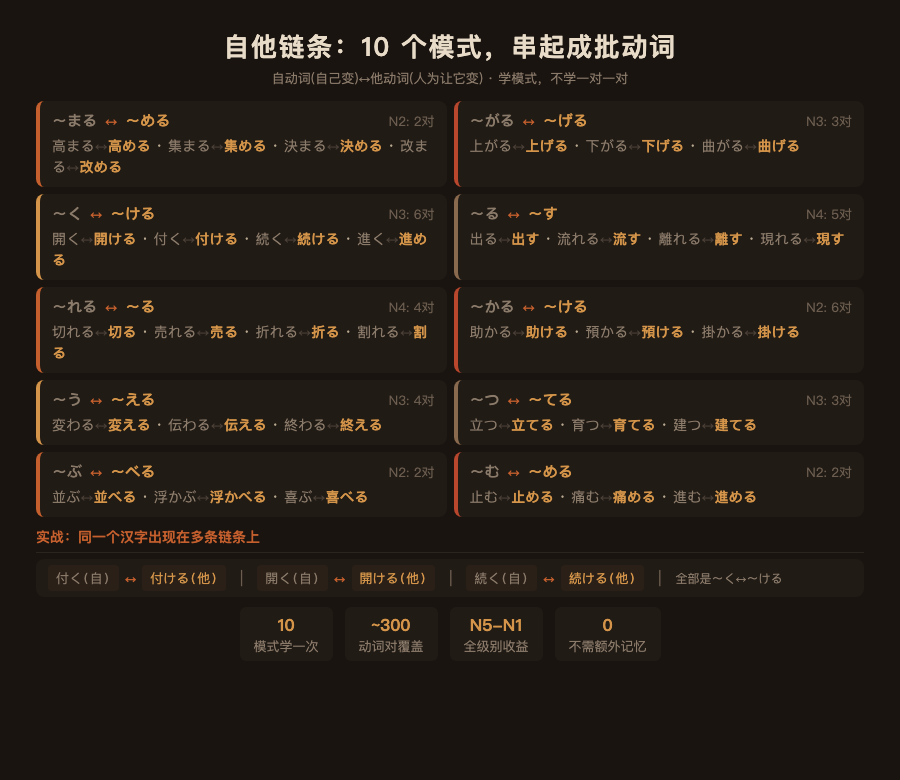
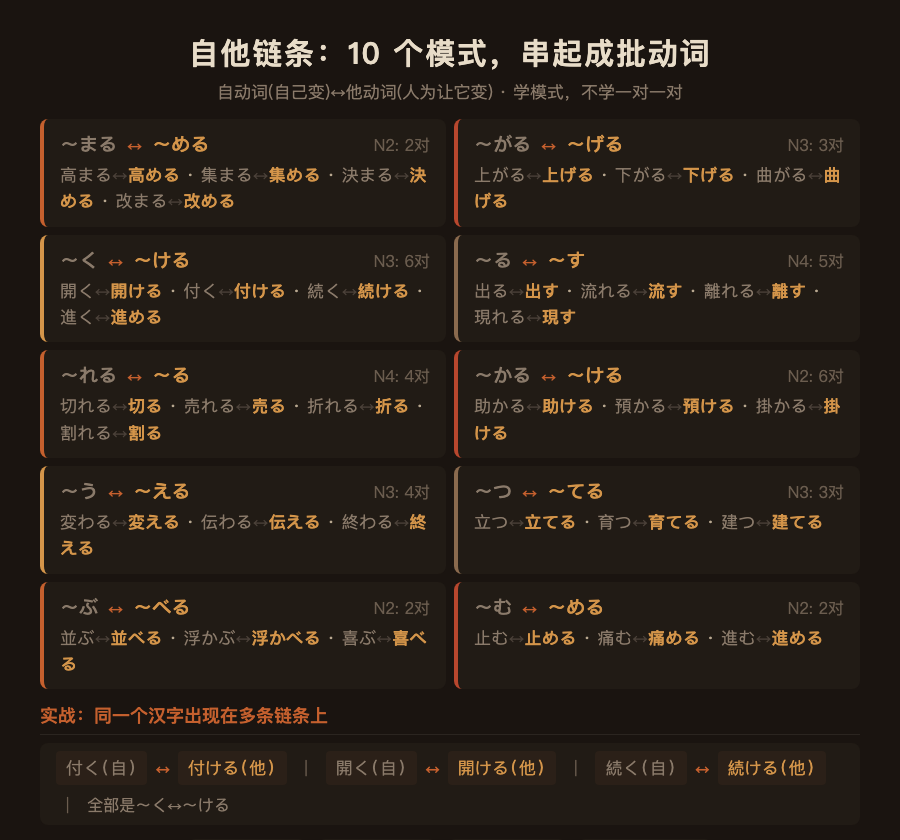
Rewrite README, fix all image fonts, update article ending
- README: concise landing page, terminal hero demo, quick wins table
- 8 images: fonts 1.5-2x larger on 900px canvas (12-13px → 16-20px)
- radical-clusters: reduced to 8 examples/card, height 1020px
- Article: hero caption, strategic bolding, new ending echoing opening
- Added website preview and git screenshots from user

diff --git a/docs/2026-05-09-训读的终极答案-不是背-是逛.html b/docs/2026-05-09-训读的终极答案-不是背-是逛.html
@@ -3,23 +3,24 @@
 <head>
 <meta charset="UTF-8">
 <meta name="viewport" content="width=device-width,initial-scale=1.0">
-<meta name="description" content="你打开 Anki，今天要背 50 张卡。每张卡上一个汉字，两三种读法。这张是「書」——昨天读「か」、今天读「…">
+<meta name="description" content="图：4,316 个表面训读实例，过滤后剩约 1,100 个需要刻意记。训读不是背的，是逛的。 你打开 Ank…">
 <title>训读的终极答案：不是背，是逛</title>
 </head>
 <body style="margin:0;padding:12px;background:#fff;">
 <section style="font-size:17px;color:#2c2416;line-height:1.85;letter-spacing:0.3px;word-wrap:break-word;">
 <p style="text-align:center;margin:20px 0 6px;"><img src="images/2026-05-09/hero.png" alt="头图" style="max-width:100%;height:auto;display:block;margin:0 auto;border-radius:2px;"></p>
+<p style="margin:4px 0 22px;text-align:center;font-size:12px;color:#b0a090;line-height:1.5;">图：4,316 个表面训读实例，过滤后剩约 1,100 个需要刻意记。训读不是背的，是逛的。</p>
 <p style="margin:0 0 18px;text-align:justify;">你打开 Anki，今天要背 50 张卡。每张卡上一个汉字，两三种读法。这张是「書」——昨天读「か」、今天读「しょ」。你已经分不清哪个是音读哪个是训读。也不知道「書きます」和「書いて」为什么要各占一张卡。</p>
 <p style="margin:0 0 18px;text-align:justify;">你盯着屏幕，开始怀疑一件事——我记忆力是不是有问题？</p>
-<p style="margin:0 0 18px;text-align:justify;">不是你记忆力有问题。是我把 JLPT 全部词汇跑了一遍之后，数据说的：4,316 个表面上的训读实例，你需要刻意记的，只有约 1,100 个。剩下四分之三，是日语本身的语法结构替你扛了——活用形、自他对、形态派生，它们本来就不应该作为独立的记忆项存在。</p>
+<p style="margin:0 0 18px;text-align:justify;"><strong style="color:#1a1410;">不是你记忆力有问题。</strong>是我把 JLPT 全部词汇跑了一遍之后，数据说的：4,316 个表面上的训读实例，你需要刻意记的，只有约 1,100 个。剩下四分之三，是日语本身的语法结构替你扛了——活用形、自他对、形态派生，它们本来就不应该作为独立的记忆项存在。</p>
 <p style="margin:0 0 18px;text-align:justify;">剩下的 ~1,100 个词根，也不是一盘散沙。它们之间连着六种你可以用的关系——每一种都让下一个词根更容易记住，因为你是在已有锚点上挂新东西，不是在一片空白里硬刻。</p>
-<p style="margin:0 0 18px;text-align:justify;">训读不是背的。是逛的。</p>
+<p style="margin:0 0 18px;text-align:justify;">训读不是背的。<strong style="color:#1a1410;">是逛的。</strong></p>
 <hr style="margin:32px 0;border:0;border-top:1px solid #e5ddd0;">
 <h2 style="font-size:20px;font-weight:700;color:#1a1410;margin:36px 0 16px;padding-left:12px;border-left:4px solid #b8472e;line-height:1.35;">先扭一个视角</h2>
 <p style="margin:0 0 18px;text-align:justify;">「訓読み」这个词本身就在误导你。听起来像是"汉字的日本发音"——每个汉字自带一种或几种日语读法，你的任务是把它们配对记住。</p>
 <p style="margin:0 0 18px;text-align:justify;">不是这样的。</p>
 <p style="margin:0 0 18px;text-align:justify;">日语里有一个动词，读作「はかる」。意思是量、测、估计。当你用它称重量，写成「量る」。测长度，写成「測る」。图谋不轨，写成「謀る」。日语里只有一个「はかる」——你不需要记三个汉字的三个训读。你学的是一个日语词，它有三种汉字写法。</p>
-<p style="margin:0 0 18px;text-align:justify;">把这个视角扭过来。训读不是汉字的日本发音，是和语词的汉字书写方式。扭过来之后，一堆你以前觉得混乱不堪的东西突然清楚了。</p>
+<p style="margin:0 0 18px;text-align:justify;">把这个视角扭过来。<strong style="color:#1a1410;">训读不是汉字的日本发音，是和语词的汉字书写方式。</strong>扭过来之后，一堆你以前觉得混乱不堪的东西突然清楚了。</p>
 <p style="margin:0 0 18px;text-align:justify;"><strong style="color:#1a1410;">你学的是一个日语词。汉字只是它穿的衣服。</strong></p>
 <p style="text-align:center;margin:20px 0 6px;"><img src="images/2026-05-09/hakaru.png" alt="はかる" style="max-width:100%;height:auto;display:block;margin:0 auto;border-radius:2px;"></p>
 <p style="margin:4px 0 22px;text-align:center;font-size:12px;color:#b0a090;line-height:1.5;">图：日语里只有一个「はかる」——量る（称重）、測る（测长）、謀る（图谋）是三种写法，不是三个词。</p>
@@ -30,8 +31,8 @@
 <p style="text-align:center;margin:20px 0 6px;"><img src="images/2026-05-09/henka.png" alt="変：汉字网络卡" style="max-width:100%;height:auto;display:block;margin:0 auto;border-radius:2px;"></p>
 <p style="margin:4px 0 22px;text-align:center;font-size:12px;color:#b0a090;line-height:1.5;">图：「変」的四张网——か家族 28 字（最大词干家族）、自他一对、复合词 6 个、同部件 39 字。</p>
 <p style="margin:0 0 18px;text-align:justify;"><strong style="color:#1a1410;">词干家族。</strong> 这是最狠的一招。「変」读 か。同一个 か，JLPT 里还有 27 个字：書、買、借、掛、換、勝、兼、交、代、駆、飼、枯、嗅、噛、欠、架、賭、描、刈、懸、掻、蚊、鹿、貸、且、涸、嗄。这是 260 个词干家族里最大的一族。</p>
-<p style="margin:0 0 18px;text-align:justify;">你在 N5 学了「書＝か」——書く、書き方。到 N4 遇到「買＝か」——買う、買い物。到 N3 遇到「変＝か」——変わる。到 N2 遇到「掛＝か」——掛かる、掛ける。到 N1 遇到「賭＝か」——賭ける。一个读音，贯穿五个级别，二十八个字。你不是在背二十八个新读法——你在确认二十八次同一个读音。确认的成本，大约是全新记忆的三成。</p>
-<p style="margin:0 0 18px;text-align:justify;"><strong style="color:#1a1410;">自他对应。</strong> 変わる（自己变）↔ 変える（人为让它变）。模式是 〜う↔〜える。学会这一个模式，「変」的训读用法少了一半。同一个模式管着伝わる↔伝える、終わる↔終える、替わる↔替える。不是一条一条记，是一个模式管一批。</p>
+<p style="margin:0 0 18px;text-align:justify;">你在 N5 学了「書＝か」——書く、書き方。到 N4 遇到「買＝か」——買う、買い物。到 N3 遇到「変＝か」——変わる。到 N2 遇到「掛＝か」——掛かる、掛ける。到 N1 遇到「賭＝か」——賭ける。一个读音，贯穿五个级别，二十八个字。你不是在背二十八个新读法——<strong style="color:#1a1410;">你在确认二十八次同一个读音。确认的成本，大约是全新记忆的三成。</strong></p>
+<p style="margin:0 0 18px;text-align:justify;"><strong style="color:#1a1410;">自他对应。</strong> 変わる（自己变）↔ 変える（人为让它变）。模式是 〜う↔〜える。学会这一个模式，「変」的训读用法少了一半。同一个模式管着伝わる↔伝える、終わる↔終える、替わる↔替える。<strong style="color:#1a1410;">不是一条一条记，是一个模式管一批。</strong></p>
 <p style="margin:0 0 18px;text-align:justify;"><strong style="color:#1a1410;">复合词共现。</strong> JLPT 里「変」和这些字一起出现：大、相、化、換、更、革——大変、相変、変化、変換、変更、変革。你在 N5 学了「大変」（たいへん），到 N3 遇到「変化」（へんか）——「変」你已经见过了。每遇到一次，就是一次免费复习。</p>
 <p style="margin:0 0 18px;text-align:justify;"><strong style="color:#1a1410;">同部件。</strong> 39 个字共享「変」的部件结构——恋、蛮、湾、跡……他们之间没有读音规律。没关系。部件的意义不是预测读音，是视觉锚定——你看到这个结构，就知道它是"这一类的字"。</p>
 <p style="margin:0 0 18px;text-align:justify;">一个 N5 汉字，四张网同时罩着它。你不是在记一个读音。<strong style="color:#1a1410;">你是在一张网上定位一个节点。</strong></p>
@@ -88,7 +89,14 @@
 <p style="margin:0 0 18px;text-align:justify;"><strong style="color:#1a1410;">验证方式。</strong> 每一步都不是"我觉得应该是这样"——是用数据回答的。词干家族的成员都经过了交叉验证（同一个词干读法在至少两个不同的 JLPT 词中出现）。自他模式的覆盖率用实际动词对数量算的。压缩比每层都有去重前后的计数对比。</p>
 <p style="margin:0 0 18px;text-align:justify;"><strong style="color:#1a1410;">核心结论用数据说就是：</strong> 4,316 个表面训读实例，日语语法结构替你扛掉 3,200 个，剩下 ~1,100 个用三种走法串起来。你不是要背 4,316 个东西——你是要在 1,100 个节点上逛。</p>
 <hr style="margin:32px 0;border:0;border-top:1px solid #e5ddd0;">
-<div style="margin:32px 0 12px;padding:20px 18px;background:#faf7f2;border:1px solid #e0d6c4;border-radius:6px;text-align:center;font-size:15px;color:#5c4a32;line-height:1.8;">我把这 2,135 个字的关系网做成了一个网站。点一个汉字，看它连着谁——词干家族、自他对、复合词、部首、部件。<br><br><strong style="color:#1a1410;">www.5mcv4he.cn/yomeru.html</strong><br><br>全部代码、数据、分析脚本已开源：<br><br><strong style="color:#1a1410;">github.com/5Mcv4He/kanji-kun</strong><br><br>你背训读的时候，哪个字让你最崩溃？去搜一下，评论区告诉我它连着谁。</div>
+<h2 style="font-size:20px;font-weight:700;color:#1a1410;margin:36px 0 16px;padding-left:12px;border-left:4px solid #b8472e;line-height:1.35;">回到那张 Anki 卡</h2>
+<p style="margin:0 0 18px;text-align:justify;">现在回到你打开 Anki 的那个瞬间。</p>
+<p style="margin:0 0 18px;text-align:justify;">你打开的不是 50 张需要独立记忆的卡。你打开的是一张网。每个汉字的训读，不是它自己发明的发音——是一个日语词给它穿的衣服。你每遇到一个"新"读法，做的不是背：是把新来的汉字放进它该去的词干家族、确认一次自他模式、在部首文件夹里给它一个位置。</p>
+<p style="margin:0 0 18px;text-align:justify;"><strong style="color:#1a1410;">确认 28 次同一个读音，比背 28 个独立读音省四分之三的力气。</strong></p>
+<p style="margin:0 0 18px;text-align:justify;">4,316 个表面实例，日语语法替你扛了四分之三。剩下 ~1,100 个词根，用三种走法串起来——词干家族 260 个、自他模式 10 个、部首文件夹 15 个。JLPT 任何一个汉字，你都知道该往哪逛。你的任务不是背 4,316 个东西，是在 1,100 个节点之间逛。</p>
+<p style="text-align:center;margin:20px 0 6px;"><img src="images/2026-05-09/网页预览.jpg" alt="网站截图" style="max-width:100%;height:auto;display:block;margin:0 auto;border-radius:2px;"></p>
+<p style="margin:4px 0 22px;text-align:center;font-size:12px;color:#b0a090;line-height:1.5;">图：kanji-kun 网站——点任意汉字，看它连着谁。</p>
+<div style="margin:32px 0 12px;padding:20px 18px;background:#faf7f2;border:1px solid #e0d6c4;border-radius:6px;text-align:center;font-size:15px;color:#5c4a32;line-height:1.8;"><strong style="color:#1a1410;">www.5mcv4he.cn/yomeru.html</strong><br><br>全部代码、数据、分析脚本已开源：<br><br><img src="images/2026-05-09/git.png" alt="GitHub" style="max-width:100%;height:auto;display:block;margin:0 auto;border-radius:2px;"><br><br><strong style="color:#1a1410;">github.com/5Mcv4He/kanji-kun</strong></div>
 </section>
 </body>
 </html>

diff --git a/README.md b/README.md
@@ -1,22 +1,22 @@
-# 训读终结
-
 <p align="center">
   <samp>訓</samp> <samp>読</samp> <samp>終</samp> <samp>結</samp>
 </p>
 
 <p align="center">
-  <img src="https://img.shields.io/badge/data-8,375%20words-2c2416?style=flat-square" alt="8,375 JLPT words">
+  <img src="https://img.shields.io/badge/kanji-2,135-c5602e?style=flat-square" alt="2,135 JLPT kanji">
   <img src="https://img.shields.io/badge/ratio-4.0:1-b8472e?style=flat-square" alt="4.0:1 compression">
-  <img src="https://img.shields.io/badge/coverage-N5%E2%80%93N1-c5602e?style=flat-square" alt="N5-N1">
-  <img src="https://img.shields.io/badge/python-3.9%2B-d4954a?style=flat-square" alt="Python 3.9+">
+  <img src="https://img.shields.io/badge/level-N5%E2%80%93N1-d4954a?style=flat-square" alt="N5-N1">
+  <img src="https://img.shields.io/badge/license-MIT-8a7a6a?style=flat-square" alt="MIT">
 </p>
+
+# 训读终结
 
 <p align="center">
   <b>JLPT 的训读，四分之三不需要记。</b>
   <br>
-  不是靠技巧绕过去——是日语本身的结构决定了它们不是独立的记忆项。
+  不是靠技巧绕过去——是日语本身的语法结构决定了它们不是独立的记忆项。
   <br>
-  穷举三种方法、三十多个维度之后，确认了这件事。
+  4,316 个表面实例，压缩到 ~1,100 个需要刻意记的词根。用三种走法串起来。
 </p>
 
 <br>
@@ -26,98 +26,77 @@
 ```
 $ python3 kun_diagnostic_v9.py
 
-=== V9 Diagnostic v3 ===
+=== V9 Diagnostic ===
 
 [1/4] Compression...
-  4316 → 1892 → 1703 → 1703 → 1087
-  Ratio: 4.0:1 (74.8%)
+  4,316 → 1,892 → 1,703 → 1,087
+  Ratio: 4.0:1 (74.8% of surface instances eliminated)
 
 [2/4] Transfer...
-  N5: reuse=0.0%
-  N4: reuse=25.2%   ← 四分之一在 N5 已见过
-  N3: reuse=39.9%
-  N2: reuse=46.9%   ← 将近一半不是新的
-  N1: reuse=44.9%
+  N4: 25.2% already seen in N5
+  N3: 39.9%            ← 将近一半不是新的
+  N2: 46.9%
+  N1: 44.9%
 
 [3/4] Anchors...
-  Coverage: 99.7% (3+: 54.8%)
+  Coverage: 99.7% (3+ anchors: 54.8%)
 
 [4/4] Traps...
   Multi-kun: 90  Homo: 123  Shape: 70  Heavy: 29
 
-=== DONE ===
+=== 训读不是背的，是逛的 ===
 ```
 
 ---
 
 <br>
 
+## 为什么不是"背"而是"逛"
+
+| 传统做法 | 实际需要 |
+|---------|---------|
+| 4,316 个 (汉字, 读音) —— 逐个背 | 1,100 个词根 —— 逛着确认 |
+| 每个读音独立记忆 | 260 个词干家族，同音汉字一次确认 |
+| 自动词他动词分着记 | 10 个模式管几百对，学一个送一个 |
+| 汉字散装排列 | 15 个部首文件夹，建好归类 |
+
+**确认的成本，大约是全新记忆的三成。** 学「書＝か」之后，遇到「買＝か」「変＝か」——你不是在背新读音，你在确认同一个读音。
+
+<br>
+
 ## 看一眼就能用
 
-**音训判断，6 条。** 看到一个日语词，第一秒决定走音读还是训读：
+**音训判断，见到词第一秒决定方向：**
 
-| # | 看到什么 | 判断 | 靠谱率 |
-|---|---------|------|--------|
-| 1 | 多汉字 + 无假名尾巴 | 音读 | 96% |
-| 2 | 有假名尾巴 | 训读 | 90% |
-| 3 | 孤零零一个汉字 | 训读 | 65% |
-| 4 | 身体/自然/亲属词汇 | 训读信号 | — |
-| 5 | 入声尾(くつちき) + 无假名 | 音读 | 80% |
-| 6 | 抽象/数字概念 | 音读信号 | — |
+| 看到什么 | 判断 | 靠谱率 |
+|---------|------|--------|
+| 多汉字 + 无假名尾巴 | 音读 | 96% |
+| 有假名尾巴 | 训读 | 90% |
+| 身体/自然/亲属词汇 | 训读信号 | — |
+| 入声尾(くつちき) + 无假名 | 音读 | 80% |
 
-总覆盖 **91%**。剩下 9% 你知道要查字典。
-
-**自他对应，10 个模式，学会一次终身受用：**
+**自他对应，10 个模式学一次终身受用：**
 
 ```
 まる↔める  がる↔げる  く↔ける  る↔す  れる↔る
 かる↔ける  う↔える  つ↔てる  ぶ↔べる  む↔める
 ```
 
-看到 〜める，自动词大概率 〜まる。看到 〜げる，自动词大概率 〜がる。不是一个一个记——一个模式管一批。
+看到 〜める，自动词大概率 〜まる。**学模式，不学一对一对。**
 
-**送假名词类，9 条。** 假名尾巴直接暴露词类：
-
-| 假名尾巴 | 词类 |
-|---------|------|
-| 〜る | 动词 |
-| 〜く/ぐ/す/む/ぶ | 五段动词 |
-| 〜い/しい | 形容词 |
-| 〜える | 一段他动词 |
-| 〜れる | 被动/可能/自动 |
-| 〜り/き/み | 名词 |
-
-**省掉 75% 的账：**
-
-```
-4,316 表面实例
-    ↓ 活用形归并（書く/書きます/書いて → 同一个东西）
-1,892 不同(汉字,读法)对
-    ↓ 形态词根归并（上がる/上げる/上がり → 同一词根）
-1,703 独立词根
-    ↓ 跨级复用（N4 有 25% 在 N5 已出现）
-~1,770 逐级新词根
-    ↓ 词干连带（学了「口=くち」→「朽=くち」只需确认）
-~1,087 有效记忆项 + 25 条规则
-```
-
----
+**逛法速查：** 学到新字 → 问它是不是已知词干家族的成员 → 确认一次自他模式 → 部首文件夹归档。JLPT 任何一个汉字，三秒内知道往哪逛。
 
 <br>
 
 ## 怎么做到的
 
-不是想了几条思路——是写代码跑完的。
+三个方向穷举全死了，反而确认了边界：
 
-三个方向穷举，全死了：
+- **规则推导**：if-then 规则覆盖率硬上限 21%。训读不存在全局推导规则。
+- **特征交叉**：部首/语义/送假名两两交叉，最强信号 1 bit ≈ 抛硬币。
+- **ML 聚类**：30+ 维特征跑 K-Means，只聚类出音韵相似性——不存在被隐藏的深层结构。
 
-- **规则推导**：所有语法模式写成 if-then，覆盖率上限 21%。每条规则都被反例撕烂。
-- **特征交叉**：部首/语义/送假名/拍数两两交叉，最强信号 1 bit ≈ 抛硬币。
-- **ML 聚类**：30+ 维特征跑 K-Means，聚类只看见音韵相似性——深层结构不存在。
-
-这意味着两件事。第一，训读确实不存在全局推导规则——帮你省下继续找口诀的时间。第二，你不需要规律——因为 75% 的东西本来就不该作为独立记忆项存在。
-
----
+**这反而是好消息：** 75% 的东西本来就不该作为独立记忆项存在，剩下 25% 靠网络关系串起来。不需要找规律——你只需要学会逛。
 
 <br>
 
@@ -126,51 +105,37 @@ $ python3 kun_diagnostic_v9.py
 ```bash
 pip install openpyxl
 python3 kun_diagnostic_v9.py
-# → output/kun_diagnostic_v9.md  +  .json
+# → output/kun_diagnostic_v9.md + .json
 ```
+
+**Web 工具：** [www.5mcv4he.cn/yomeru.html](https://www.5mcv4he.cn/yomeru.html) — 点任意汉字看它连着谁。
 
 核心输出：
 
 | 文件 | 说明 |
 |------|------|
-| `output/kun_final_system.md` | 学习者一站式文档（7章+4附录+速查卡） |
-| `output/kun_v8_anki_N5.csv` ~ `N1.csv` | 分级别 Anki 牌组 |
+| `output/kun_final_system.md` | 学习者一站式文档（7 章 + 速查卡） |
 | `output/kun_diagnostic_v9.md` | 四维量化诊断报告 |
-
----
+| `output/kun_v8_anki_N5.csv` ~ `N1.csv` | 分级别 Anki 牌组 |
+| `output/kanji_app_data.json` | Web 应用数据 |
+| `app/index.html` | 训读网络探索器 |
 
 <br>
 
 ## 已验证的发现
 
-**肯定（10 项）：**
-音训判断 6 条规则覆盖 91% / 自他对 10 模式 / 送假名 9 条规则 / 帕累托频率优先 / 词干连带效应 / 跨级复利（25–47%复用）/ 活用形归并 56.2% / 形态派生归并 10.0% / 部首锚点 97.3% 覆盖 / 陷阱全标记（90+123+70+29）
+✓ 音训判断 6 条覆盖 91% · 自他对 10 模式 · 活用形归并 −56% · 跨级复用 25–47% · 词干连带确认成本 ~30% · 部首锚点覆盖 97.3% · 陷阱全标记
 
-**否定（5 项）——同样重要：**
-形近字极少共享读法（0.2–0.6%）→ "训读声旁"不存在 / 部首不能预测读法 / 语义域不能预测读法 / ML 未发现隐藏结构 / 送假名不能预测读法结尾
-
----
-
-<br>
-
-## 数据
-
-| | |
-|------|------|
-| JLPT 词汇 | 8,375（N5–N1 红宝书全量） |
-| 汉字数据库 | 46,849（漢字検索 V2） |
-| 表面训读实例 | 4,316 |
-| 有效记忆项 | ~1,087 |
-| Python 脚本 | 21 个，~11,700 行 |
+✗ "训读声旁"不存在（形近字共享读法 0.2–0.6%） · 部首不能预测读音 · ML 未发现隐藏结构
 
 ---
 
 <p align="center">
-  <a href="docs/PROJECT_SPEC.md">技术规格书</a> ·
-  <a href="docs/RELEASE.md">发布报告</a> ·
-  <a href="output/kun_final_system.md">学习者文档</a>
+  <a href="docs/2026-05-09-训读的终极答案-不是背-是逛.md">文章：训读的终极答案</a> ·
+  <a href="output/kun_final_system.md">学习者文档</a> ·
+  <a href="https://www.5mcv4he.cn/yomeru.html">Web 工具</a>
 </p>
 
 <p align="center">
-  <sub>MIT · 所有数字可复现 · 基于 JLPT 词汇逐字标注分析</sub>
+  <sub>MIT · 所有数字可复现 · 基于 JLPT 词汇逐字标注</sub>
 </p>

diff --git a/docs/2026-05-09-训读的终极答案-不是背-是逛.md b/docs/2026-05-09-训读的终极答案-不是背-是逛.md
@@ -1,16 +1,17 @@
 # 训读的终极答案：不是背，是逛
 
 ![头图](images/2026-05-09/hero.png)
+*图：4,316 个表面训读实例，过滤后剩约 1,100 个需要刻意记。训读不是背的，是逛的。*
 
 你打开 Anki，今天要背 50 张卡。每张卡上一个汉字，两三种读法。这张是「書」——昨天读「か」、今天读「しょ」。你已经分不清哪个是音读哪个是训读。也不知道「書きます」和「書いて」为什么要各占一张卡。
 
 你盯着屏幕，开始怀疑一件事——我记忆力是不是有问题？
 
-不是你记忆力有问题。是我把 JLPT 全部词汇跑了一遍之后，数据说的：4,316 个表面上的训读实例，你需要刻意记的，只有约 1,100 个。剩下四分之三，是日语本身的语法结构替你扛了——活用形、自他对、形态派生，它们本来就不应该作为独立的记忆项存在。
+**不是你记忆力有问题。**是我把 JLPT 全部词汇跑了一遍之后，数据说的：4,316 个表面上的训读实例，你需要刻意记的，只有约 1,100 个。剩下四分之三，是日语本身的语法结构替你扛了——活用形、自他对、形态派生，它们本来就不应该作为独立的记忆项存在。
 
 剩下的 ~1,100 个词根，也不是一盘散沙。它们之间连着六种你可以用的关系——每一种都让下一个词根更容易记住，因为你是在已有锚点上挂新东西，不是在一片空白里硬刻。
 
-训读不是背的。是逛的。
+训读不是背的。**是逛的。**
 
 ---
 
@@ -22,7 +23,7 @@
 
 日语里有一个动词，读作「はかる」。意思是量、测、估计。当你用它称重量，写成「量る」。测长度，写成「測る」。图谋不轨，写成「謀る」。日语里只有一个「はかる」——你不需要记三个汉字的三个训读。你学的是一个日语词，它有三种汉字写法。
 
-把这个视角扭过来。训读不是汉字的日本发音，是和语词的汉字书写方式。扭过来之后，一堆你以前觉得混乱不堪的东西突然清楚了。
+把这个视角扭过来。**训读不是汉字的日本发音，是和语词的汉字书写方式。**扭过来之后，一堆你以前觉得混乱不堪的东西突然清楚了。
 
 **你学的是一个日语词。汉字只是它穿的衣服。**
 
@@ -42,9 +43,9 @@
 
 **词干家族。** 这是最狠的一招。「変」读 か。同一个 か，JLPT 里还有 27 个字：書、買、借、掛、換、勝、兼、交、代、駆、飼、枯、嗅、噛、欠、架、賭、描、刈、懸、掻、蚊、鹿、貸、且、涸、嗄。这是 260 个词干家族里最大的一族。
 
-你在 N5 学了「書＝か」——書く、書き方。到 N4 遇到「買＝か」——買う、買い物。到 N3 遇到「変＝か」——変わる。到 N2 遇到「掛＝か」——掛かる、掛ける。到 N1 遇到「賭＝か」——賭ける。一个读音，贯穿五个级别，二十八个字。你不是在背二十八个新读法——你在确认二十八次同一个读音。确认的成本，大约是全新记忆的三成。
+你在 N5 学了「書＝か」——書く、書き方。到 N4 遇到「買＝か」——買う、買い物。到 N3 遇到「変＝か」——変わる。到 N2 遇到「掛＝か」——掛かる、掛ける。到 N1 遇到「賭＝か」——賭ける。一个读音，贯穿五个级别，二十八个字。你不是在背二十八个新读法——**你在确认二十八次同一个读音。确认的成本，大约是全新记忆的三成。**
 
-**自他对应。** 変わる（自己变）↔ 変える（人为让它变）。模式是 〜う↔〜える。学会这一个模式，「変」的训读用法少了一半。同一个模式管着伝わる↔伝える、終わる↔終える、替わる↔替える。不是一条一条记，是一个模式管一批。
+**自他对应。** 変わる（自己变）↔ 変える（人为让它变）。模式是 〜う↔〜える。学会这一个模式，「変」的训读用法少了一半。同一个模式管着伝わる↔伝える、終わる↔終える、替わる↔替える。**不是一条一条记，是一个模式管一批。**
 
 **复合词共现。** JLPT 里「変」和这些字一起出现：大、相、化、換、更、革——大変、相変、変化、変換、変更、変革。你在 N5 学了「大変」（たいへん），到 N3 遇到「変化」（へんか）——「変」你已经见过了。每遇到一次，就是一次免费复习。
 
@@ -139,14 +140,25 @@
 
 ---
 
-::: cta
-我把这 2,135 个字的关系网做成了一个网站。点一个汉字，看它连着谁——词干家族、自他对、复合词、部首、部件。
+## 回到那张 Anki 卡
 
+现在回到你打开 Anki 的那个瞬间。
+
+你打开的不是 50 张需要独立记忆的卡。你打开的是一张网。每个汉字的训读，不是它自己发明的发音——是一个日语词给它穿的衣服。你每遇到一个"新"读法，做的不是背：是把新来的汉字放进它该去的词干家族、确认一次自他模式、在部首文件夹里给它一个位置。
+
+**确认 28 次同一个读音，比背 28 个独立读音省四分之三的力气。**
+
+4,316 个表面实例，日语语法替你扛了四分之三。剩下 ~1,100 个词根，用三种走法串起来——词干家族 260 个、自他模式 10 个、部首文件夹 15 个。JLPT 任何一个汉字，你都知道该往哪逛。你的任务不是背 4,316 个东西，是在 1,100 个节点之间逛。
+
+![网站截图](images/2026-05-09/网页预览.jpg)
+*图：kanji-kun 网站——点任意汉字，看它连着谁。*
+
+::: cta
 **www.5mcv4he.cn/yomeru.html**
 
 全部代码、数据、分析脚本已开源：
 
-**github.com/5Mcv4He/kanji-kun**
+![GitHub](images/2026-05-09/git.png)
 
-你背训读的时候，哪个字让你最崩溃？去搜一下，评论区告诉我它连着谁。
+**github.com/5Mcv4He/kanji-kun**
 :::
